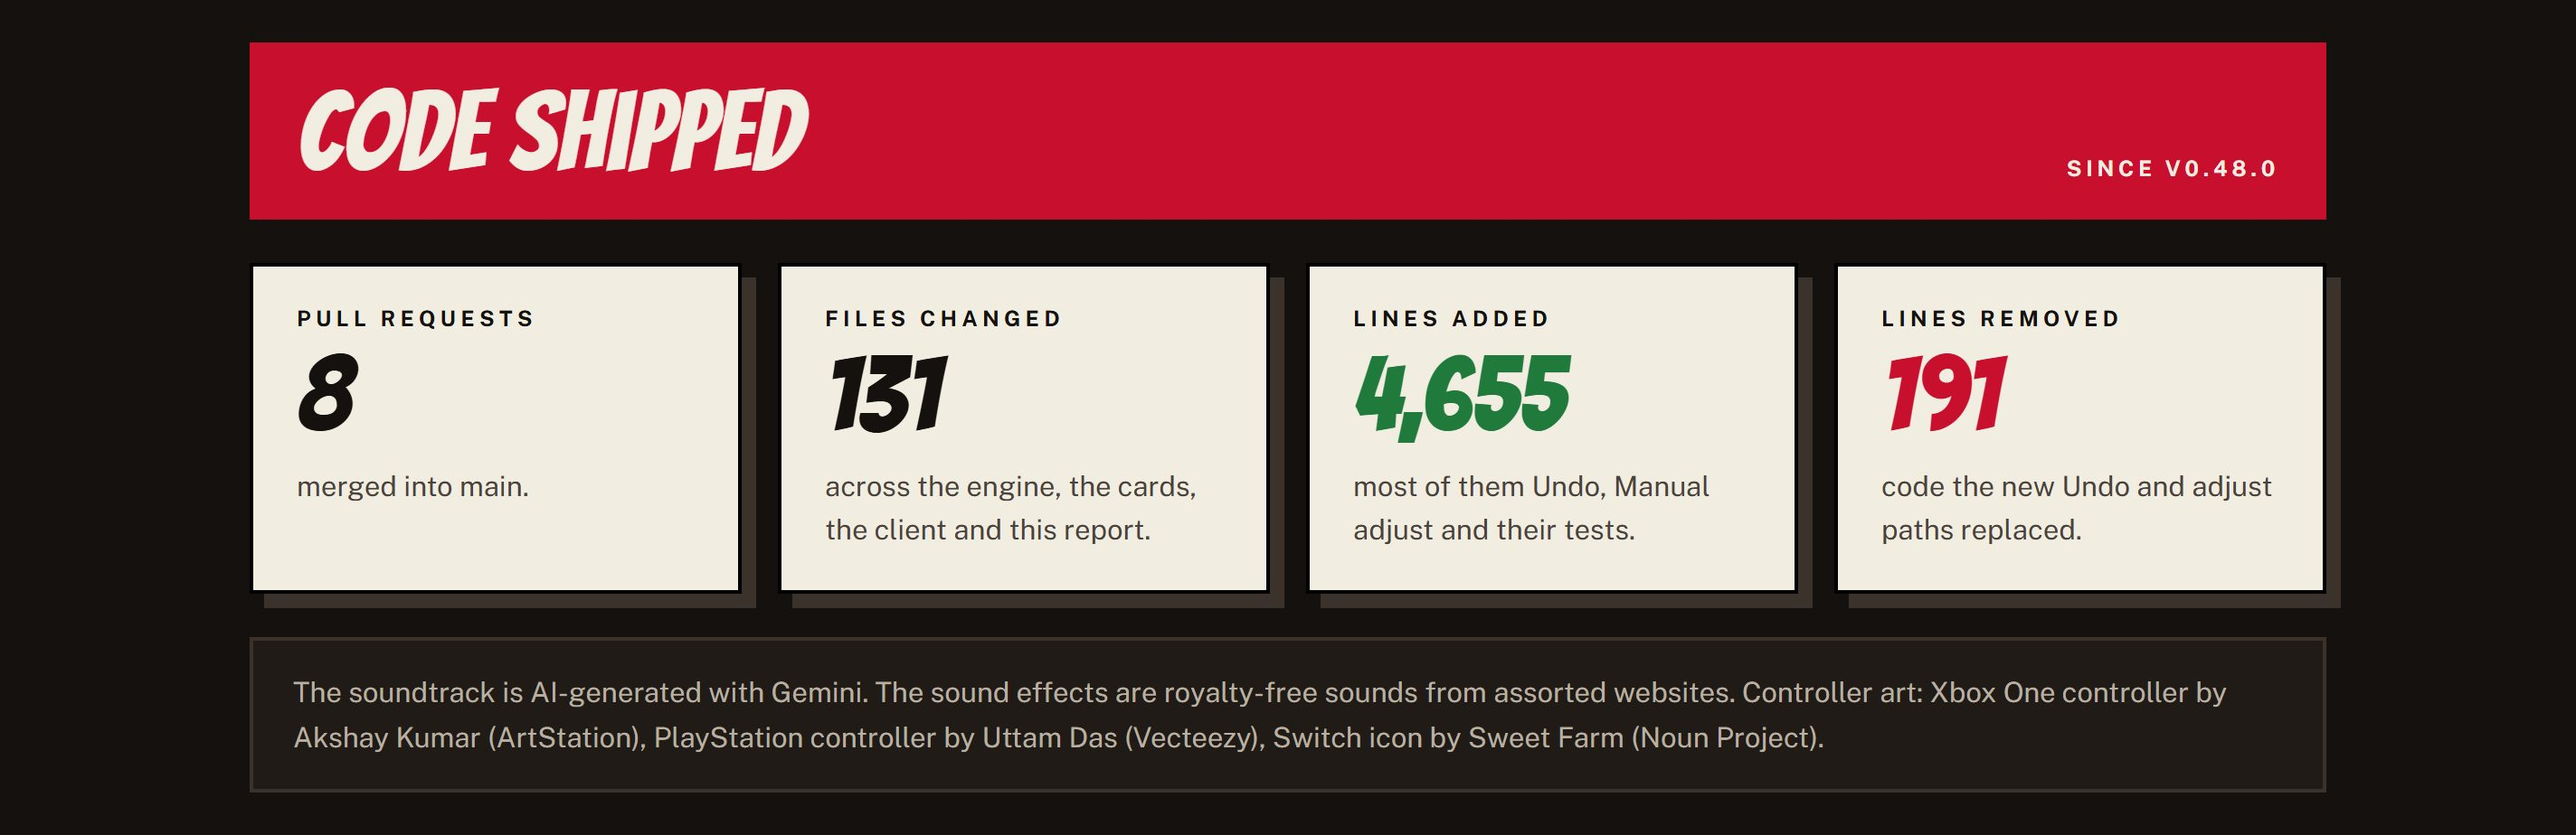
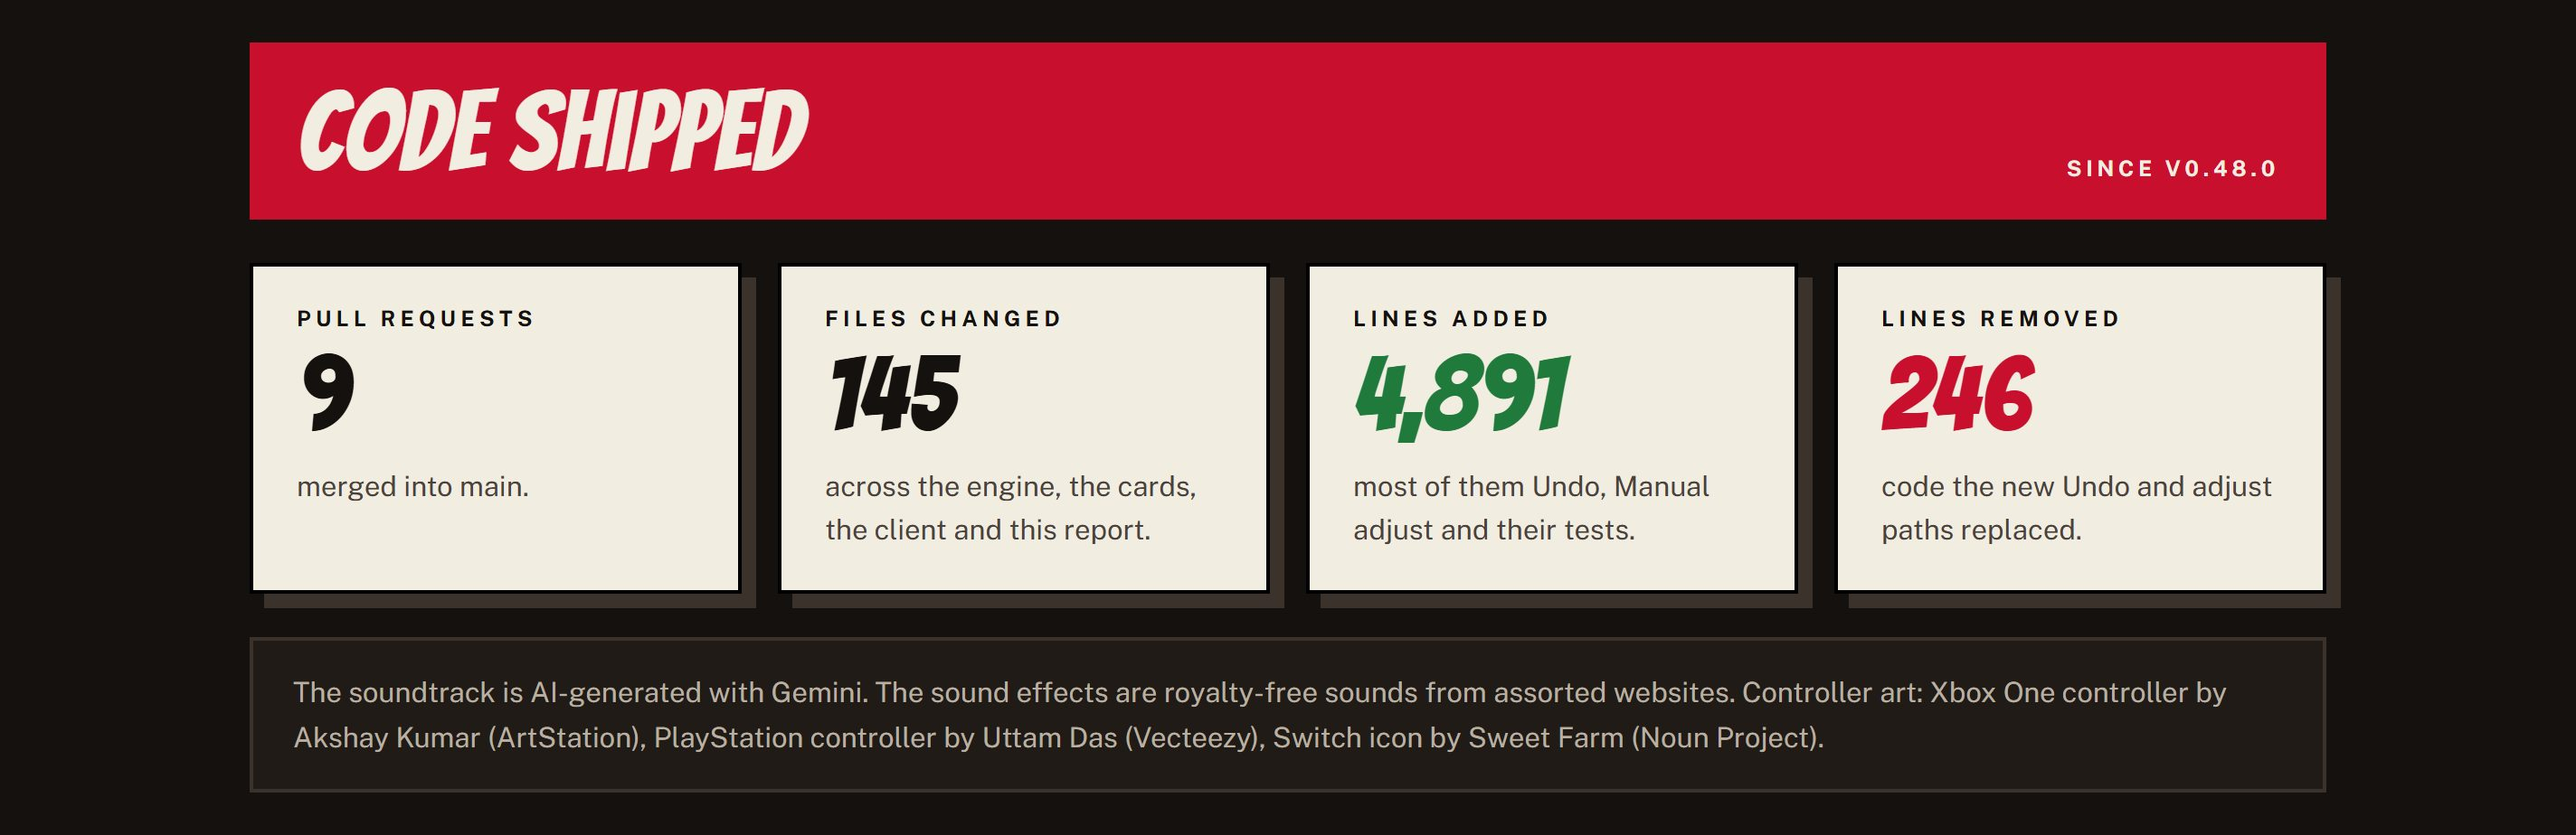
v0.49.0 report: add Crossbones' weapon (#819), recount Code shipped

diff --git a/packages/client/public/releases/v0.49.0/index.html b/packages/client/public/releases/v0.49.0/index.html
@@ -834,10 +834,15 @@
       <!-- ============ ALSO ============ -->
       <div class="band">
         <h2>Also in v0.49.0</h2>
-        <div class="lab">Issue #829 · PR #830</div>
+        <div class="lab">Issues #805, #829 · PRs #819, #830</div>
       </div>
       <div class="box">
         <ul class="ck">
+          <li>
+            <b>Crossbones starts with an Experimental Weapon</b>, revealed when Attack on Mount Athena 1B comes into
+            play, and in The Rise of Red Skull campaign every Experimental Weapon recorded in the log is shuffled into
+            scenarios 2 to 5.
+          </li>
           <li>
             Kingpin's <b>Public Support (High)</b> replaces a boost card only when it can remove the full 1 per hero
             support counters. FFG's rules specialist answered by email that the whole effect has to resolve, so with
@@ -887,22 +892,22 @@
       <section class="stats" aria-label="Code shipped since v0.48.0">
         <div class="tile">
           <h4>Pull requests</h4>
-          <div class="n">8</div>
+          <div class="n">9</div>
           <p>merged into main.</p>
         </div>
         <div class="tile">
           <h4>Files changed</h4>
-          <div class="n">131</div>
+          <div class="n">145</div>
           <p>across the engine, the cards, the client and this report.</p>
         </div>
         <div class="tile">
           <h4>Lines added</h4>
-          <div class="n c-green">4,655</div>
+          <div class="n c-green">4,891</div>
           <p>most of them Undo, Manual adjust and their tests.</p>
         </div>
         <div class="tile">
           <h4>Lines removed</h4>
-          <div class="n c-red">191</div>
+          <div class="n c-red">246</div>
           <p>code the new Undo and adjust paths replaced.</p>
         </div>
       </section>

diff --git a/docs/releases/es/v0.49.0.md b/docs/releases/es/v0.49.0.md
@@ -1,6 +1,6 @@
 ## Deshazlo, arréglalo
 
-Un clic equivocado o un error ya no tienen por qué costarte la partida. Undo ahora llega más allá del inicio de tu turno, un robo, una revelación y la fase de villano, una jugada por pulsación, y Settings ▸ Gameplay ▸ Undo past your turn elige entre Allow, Warn u Off. Pause ▸ Manual adjust corrige la mesa a mano: daño, amenaza, contadores, estados, agotar y preparar, descartes, un robo y la forma de tu héroe. Las dos funciones nacen de la petición de @sgaon42 (#791, #793), y una partida que cambias así deja de contar para las estadísticas y los logros. Giant Strength ahora espera a la forma de héroe Giant, gracias a GarethMagis en Discord (#794), One Way or Another solo roba cuando su búsqueda encuentra un plan secundario, gracias al reporte de @javgoro (#795), y un evento que Morphogenetics de Ms. Marvel devuelve a la mano puede jugarse otra vez con el mismo disparador, gracias a Gooffrey [KRBY] en Discord (#804). Public Support (High) de Kingpin ahora necesita todos sus contadores, 1 por héroe, como resolvió FFG (#829). ¡Gracias por jugar!
+Un clic equivocado o un error ya no tienen por qué costarte la partida. Undo ahora llega más allá del inicio de tu turno, un robo, una revelación y la fase de villano, una jugada por pulsación, y Settings ▸ Gameplay ▸ Undo past your turn elige entre Allow, Warn u Off. Pause ▸ Manual adjust corrige la mesa a mano: daño, amenaza, contadores, estados, agotar y preparar, descartes, un robo y la forma de tu héroe. Las dos funciones nacen de la petición de @sgaon42 (#791, #793), y una partida que cambias así deja de contar para las estadísticas y los logros. Giant Strength ahora espera a la forma de héroe Giant, gracias a GarethMagis en Discord (#794), One Way or Another solo roba cuando su búsqueda encuentra un plan secundario, gracias al reporte de @javgoro (#795), y un evento que Morphogenetics de Ms. Marvel devuelve a la mano puede jugarse otra vez con el mismo disparador, gracias a Gooffrey [KRBY] en Discord (#804). Crossbones empieza con un Experimental Weapon, y los Experimental Weapons de la campaña de Red Skull se conservan (#805). Public Support (High) de Kingpin ahora necesita todos sus contadores, 1 por héroe, como resolvió FFG (#829). ¡Gracias por jugar!
 
 ![Los números: Undo llega hasta la jugada 1, tres opciones de Undo y tres reportes atendidos](https://raw.githubusercontent.com/quincarter/marvel-champions-digital-game/5caec17116838c2d43e1cd31f93e4d5d7a2a4248/docs/screenshots/releases/v0.49.0/v0-49-0-release-01-the-numbers.jpg)
 
@@ -12,7 +12,7 @@ Un clic equivocado o un error ya no tienen por qué costarte la partida. Undo ah
 
 ![Lo pediste, lo corregimos: Giant Strength espera a la forma Giant, reportado por GarethMagis, One Way or Another necesita un plan secundario, reportado por @javgoro, y Morphogenetics vuelve a jugar Turn the Tide, reportado por Gooffrey [KRBY]](https://raw.githubusercontent.com/quincarter/marvel-champions-digital-game/5caec17116838c2d43e1cd31f93e4d5d7a2a4248/docs/screenshots/releases/v0.49.0/v0-49-0-release-05-you-asked-we-fixed.jpg)
 
-![También en v0.49.0: Public Support (High) necesita todos sus contadores, 1 por héroe, como resolvió FFG](https://raw.githubusercontent.com/quincarter/marvel-champions-digital-game/5caec17116838c2d43e1cd31f93e4d5d7a2a4248/docs/screenshots/releases/v0.49.0/v0-49-0-release-06-also-in-v0-49-0.jpg)
+![También en v0.49.0: Crossbones empieza con un Experimental Weapon y las armas de la campaña se conservan, y Public Support (High) necesita todos sus contadores, 1 por héroe, como resolvió FFG](https://raw.githubusercontent.com/quincarter/marvel-champions-digital-game/5caec17116838c2d43e1cd31f93e4d5d7a2a4248/docs/screenshots/releases/v0.49.0/v0-49-0-release-06-also-in-v0-49-0.jpg)
 
 ![Gracias a @sgaon42, GarethMagis, @javgoro y Gooffrey [KRBY]](https://raw.githubusercontent.com/quincarter/marvel-champions-digital-game/5caec17116838c2d43e1cd31f93e4d5d7a2a4248/docs/screenshots/releases/v0.49.0/v0-49-0-release-07-thank-you.jpg)
 
@@ -32,6 +32,7 @@ Un clic equivocado o un error ya no tienen por qué costarte la partida. Undo ah
 - Giant Strength de Ant-Man solo se ofrece después de cambiar a la forma de héroe Giant, y Ant-Man's Helmet solo ofrece la respuesta que corresponde a la nueva forma (#794).
 - One Way or Another ya no roba 3 cartas cuando la búsqueda no encuentra ningún plan secundario en el mazo de encuentros, y toma el plan secundario que encuentra (#795).
 - Las pruebas e2e del historial de versiones eligen la versión y el informe más recientes en lugar de v0.40.0, así que una versión nueva ya no las rompe (#802).
+- Crossbones ahora empieza con un Experimental Weapon de Attack on Mount Athena 1B, y en la campaña de Red Skull cada Experimental Weapon anotado se baraja en los escenarios 2 a 5 (#805).
 - Morphogenetics de Ms. Marvel: un evento que devuelve a su mano (Turn the Tide, Wiggle Room) puede jugarse otra vez con el mismo disparador, como resolvió FFG (#804)
 - Public Support (High) de Kingpin ahora reemplaza una carta de potenciación solo cuando puede quitar todos los contadores de apoyo, 1 por héroe, como resolvió FFG (#829).
 

diff --git a/docs/screenshots/releases/v0.49.0/github-release-body.md b/docs/screenshots/releases/v0.49.0/github-release-body.md
@@ -1,8 +1,8 @@
 ## Take It Back, Set It Right
 
-A misclick or a bug no longer has to cost you the game. Undo now reaches past the start of your turn, a draw, a reveal and the villain phase, one move per press, and Settings ▸ Gameplay ▸ Undo past your turn picks Allow, Warn or Off. Pause ▸ Manual adjust corrects the table by hand: damage, threat, counters, statuses, exhausting and readying, discards, a draw and your hero's form. Both came from @sgaon42's request (#791, #793), and a game you change that way stops counting toward stats and achievements. Giant Strength now waits for Giant hero form, thanks to GarethMagis on Discord (#794), One Way or Another draws only when its search finds a side scheme, thanks to @javgoro's report (#795), and an event Ms. Marvel's Morphogenetics returns to hand can be played again off the same trigger, thanks to Gooffrey [KRBY] on Discord (#804). Kingpin's Public Support (High) now needs its full 1 per hero counters, as FFG ruled (#829). Thank you for playing!
+A misclick or a bug no longer has to cost you the game. Undo now reaches past the start of your turn, a draw, a reveal and the villain phase, one move per press, and Settings ▸ Gameplay ▸ Undo past your turn picks Allow, Warn or Off. Pause ▸ Manual adjust corrects the table by hand: damage, threat, counters, statuses, exhausting and readying, discards, a draw and your hero's form. Both came from @sgaon42's request (#791, #793), and a game you change that way stops counting toward stats and achievements. Giant Strength now waits for Giant hero form, thanks to GarethMagis on Discord (#794), One Way or Another draws only when its search finds a side scheme, thanks to @javgoro's report (#795), and an event Ms. Marvel's Morphogenetics returns to hand can be played again off the same trigger, thanks to Gooffrey [KRBY] on Discord (#804). Crossbones starts with an Experimental Weapon, and Red Skull campaign weapons carry over (#805). Kingpin's Public Support (High) now needs its full 1 per hero counters, as FFG ruled (#829). Thank you for playing!
 
-**[Read the full v0.49.0 report on the site ↗](https://champions-digital-game.com/releases/v0.49.0/)**: Undo past your turn and its three settings, Manual adjust, how adjusted games stay out of your stats, the fixes, Public Support's ruling and the thank-you wall.
+**[Read the full v0.49.0 report on the site ↗](https://champions-digital-game.com/releases/v0.49.0/)**: Undo past your turn and its three settings, Manual adjust, how adjusted games stay out of your stats, the fixes, Crossbones' weapon, Public Support's ruling and the thank-you wall.
 
 **[Lee el informe completo en español ↗](https://champions-digital-game.com/releases/v0.49.0/index.es.html)**
 
@@ -16,7 +16,7 @@ A misclick or a bug no longer has to cost you the game. Undo now reaches past th
 
 ![You asked, we fixed: Giant Strength waits for Giant form, reported by GarethMagis, One Way or Another needs a side scheme, reported by @javgoro, and Morphogenetics replays Turn the Tide, reported by Gooffrey [KRBY]](https://raw.githubusercontent.com/quincarter/marvel-champions-digital-game/5caec17116838c2d43e1cd31f93e4d5d7a2a4248/docs/screenshots/releases/v0.49.0/v0-49-0-release-05-you-asked-we-fixed.jpg)
 
-![Also in v0.49.0: Public Support (High) needs its full 1 per hero counters, as FFG ruled](https://raw.githubusercontent.com/quincarter/marvel-champions-digital-game/5caec17116838c2d43e1cd31f93e4d5d7a2a4248/docs/screenshots/releases/v0.49.0/v0-49-0-release-06-also-in-v0-49-0.jpg)
+![Also in v0.49.0: Crossbones starts with an Experimental Weapon and campaign weapons carry over, and Public Support (High) needs its full 1 per hero counters, as FFG ruled](https://raw.githubusercontent.com/quincarter/marvel-champions-digital-game/5caec17116838c2d43e1cd31f93e4d5d7a2a4248/docs/screenshots/releases/v0.49.0/v0-49-0-release-06-also-in-v0-49-0.jpg)
 
 ![Thank you to @sgaon42, GarethMagis, @javgoro and Gooffrey [KRBY]](https://raw.githubusercontent.com/quincarter/marvel-champions-digital-game/5caec17116838c2d43e1cd31f93e4d5d7a2a4248/docs/screenshots/releases/v0.49.0/v0-49-0-release-07-thank-you.jpg)
 
@@ -38,6 +38,7 @@ A misclick or a bug no longer has to cost you the game. Undo now reaches past th
 - Ant-Man's Giant Strength is only offered after changing to Giant hero form, and Ant-Man's Helmet only offers the response that matches the new form (#794).
 - One Way or Another no longer draws 3 cards when the search finds no side scheme in the encounter deck, and takes the side scheme it finds (#795).
 - The release history e2e specs pick the newest release and report instead of v0.40.0, so a new release no longer breaks them (#802).
+- Crossbones now starts with an Experimental Weapon from Attack on Mount Athena 1B, and in the Red Skull campaign every recorded Experimental Weapon is shuffled into scenarios 2 to 5 (#805).
 - Ms. Marvel's Morphogenetics: an event she returns to hand (Turn the Tide, Wiggle Room) can be played again off the same trigger, as FFG ruled (#804)
 - Kingpin's Public Support (High) now replaces a boost card only when it can remove the full 1 per hero support counters, as FFG ruled (#829).
 

diff --git a/docs/screenshots/releases/v0.49.0/release-notes-header.md b/docs/screenshots/releases/v0.49.0/release-notes-header.md
@@ -1,8 +1,8 @@
 ## Take It Back, Set It Right
 
-A misclick or a bug no longer has to cost you the game. Undo now reaches past the start of your turn, a draw, a reveal and the villain phase, one move per press, and Settings ▸ Gameplay ▸ Undo past your turn picks Allow, Warn or Off. Pause ▸ Manual adjust corrects the table by hand: damage, threat, counters, statuses, exhausting and readying, discards, a draw and your hero's form. Both came from @sgaon42's request (#791, #793), and a game you change that way stops counting toward stats and achievements. Giant Strength now waits for Giant hero form, thanks to GarethMagis on Discord (#794), One Way or Another draws only when its search finds a side scheme, thanks to @javgoro's report (#795), and an event Ms. Marvel's Morphogenetics returns to hand can be played again off the same trigger, thanks to Gooffrey [KRBY] on Discord (#804). Kingpin's Public Support (High) now needs its full 1 per hero counters, as FFG ruled (#829). Thank you for playing!
+A misclick or a bug no longer has to cost you the game. Undo now reaches past the start of your turn, a draw, a reveal and the villain phase, one move per press, and Settings ▸ Gameplay ▸ Undo past your turn picks Allow, Warn or Off. Pause ▸ Manual adjust corrects the table by hand: damage, threat, counters, statuses, exhausting and readying, discards, a draw and your hero's form. Both came from @sgaon42's request (#791, #793), and a game you change that way stops counting toward stats and achievements. Giant Strength now waits for Giant hero form, thanks to GarethMagis on Discord (#794), One Way or Another draws only when its search finds a side scheme, thanks to @javgoro's report (#795), and an event Ms. Marvel's Morphogenetics returns to hand can be played again off the same trigger, thanks to Gooffrey [KRBY] on Discord (#804). Crossbones starts with an Experimental Weapon, and Red Skull campaign weapons carry over (#805). Kingpin's Public Support (High) now needs its full 1 per hero counters, as FFG ruled (#829). Thank you for playing!
 
-**[Read the full v0.49.0 report on the site ↗](https://champions-digital-game.com/releases/v0.49.0/)**: Undo past your turn and its three settings, Manual adjust, how adjusted games stay out of your stats, the fixes, Public Support's ruling and the thank-you wall.
+**[Read the full v0.49.0 report on the site ↗](https://champions-digital-game.com/releases/v0.49.0/)**: Undo past your turn and its three settings, Manual adjust, how adjusted games stay out of your stats, the fixes, Crossbones' weapon, Public Support's ruling and the thank-you wall.
 
 **[Lee el informe completo en español ↗](https://champions-digital-game.com/releases/v0.49.0/index.es.html)**
 
@@ -16,7 +16,7 @@ A misclick or a bug no longer has to cost you the game. Undo now reaches past th
 
 ![You asked, we fixed: Giant Strength waits for Giant form, reported by GarethMagis, One Way or Another needs a side scheme, reported by @javgoro, and Morphogenetics replays Turn the Tide, reported by Gooffrey [KRBY]](https://raw.githubusercontent.com/quincarter/marvel-champions-digital-game/5caec17116838c2d43e1cd31f93e4d5d7a2a4248/docs/screenshots/releases/v0.49.0/v0-49-0-release-05-you-asked-we-fixed.jpg)
 
-![Also in v0.49.0: Public Support (High) needs its full 1 per hero counters, as FFG ruled](https://raw.githubusercontent.com/quincarter/marvel-champions-digital-game/5caec17116838c2d43e1cd31f93e4d5d7a2a4248/docs/screenshots/releases/v0.49.0/v0-49-0-release-06-also-in-v0-49-0.jpg)
+![Also in v0.49.0: Crossbones starts with an Experimental Weapon and campaign weapons carry over, and Public Support (High) needs its full 1 per hero counters, as FFG ruled](https://raw.githubusercontent.com/quincarter/marvel-champions-digital-game/5caec17116838c2d43e1cd31f93e4d5d7a2a4248/docs/screenshots/releases/v0.49.0/v0-49-0-release-06-also-in-v0-49-0.jpg)
 
 ![Thank you to @sgaon42, GarethMagis, @javgoro and Gooffrey [KRBY]](https://raw.githubusercontent.com/quincarter/marvel-champions-digital-game/5caec17116838c2d43e1cd31f93e4d5d7a2a4248/docs/screenshots/releases/v0.49.0/v0-49-0-release-07-thank-you.jpg)
 

diff --git a/docs/screenshots/releases/v0.49.0/discord-post.md b/docs/screenshots/releases/v0.49.0/discord-post.md
@@ -8,6 +8,7 @@ A misclick or a bug no longer has to cost you the game.
 🐜 **Giant Strength** now waits for Giant hero form, and Ant-Man's Helmet gets the same fix (thanks, GarethMagis!).
 🌌 **One Way or Another** draws only when its search finds a side scheme (thanks, javgoro!).
 🔁 **Morphogenetics**: an event Ms. Marvel returns to hand, like Turn the Tide, can be played again off the same trigger (thanks, Gooffrey [KRBY]!).
+💀 **Crossbones** starts with an Experimental Weapon, and Red Skull campaign weapons carry over to scenarios 2 to 5.
 🎩 **Public Support (High)** now needs its full 1 per hero counters to replace a boost card, as FFG ruled.
 
 Both Undo and Manual adjust came from sgaon42's request. Thank you!
@@ -25,6 +26,7 @@ Un clic equivocado o un error ya no tienen por qué costarte la partida.
 🐜 **Giant Strength** ahora espera a la forma de héroe Giant, y Ant-Man's Helmet recibe la misma corrección (¡gracias, GarethMagis!).
 🌌 **One Way or Another** solo roba cuando su búsqueda encuentra un plan secundario (¡gracias, javgoro!).
 🔁 **Morphogenetics**: un evento que Ms. Marvel devuelve a la mano, como Turn the Tide, puede jugarse otra vez con el mismo disparador (¡gracias, Gooffrey [KRBY]!).
+💀 **Crossbones** empieza con un Experimental Weapon, y los de la campaña de Red Skull pasan a los escenarios 2 a 5.
 🎩 **Public Support (High)** ahora necesita todos sus contadores, 1 por héroe, para reemplazar una carta de potenciación, como resolvió FFG.
 
 Undo y Manual adjust nacen de la petición de sgaon42. ¡Gracias!
